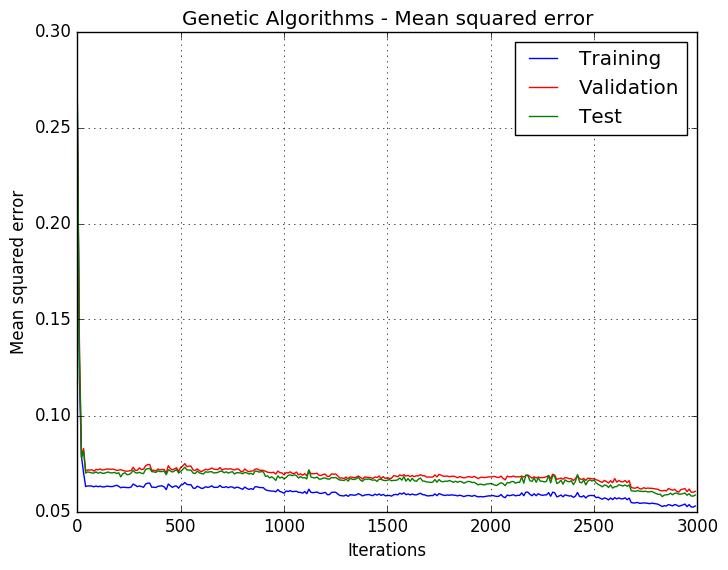
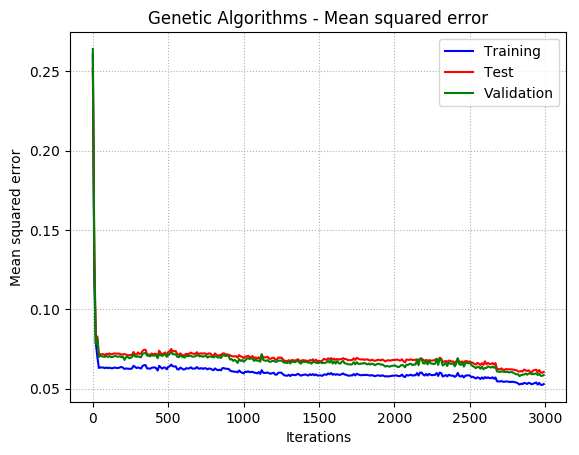
Added validation curves

diff --git a/src/nn_plots.py b/src/nn_plots.py
@@ -4,8 +4,6 @@ experiments.
 
 """
 from helpers import get_abspath
-import matplotlib
-matplotlib.use('agg')
 import numpy as np
 import pandas as pd
 import seaborn as sns
@@ -17,10 +15,28 @@ def combine_datasets(datafiles):
     optimization algorithms.
 
     Args:
-        datafiles (list(str)): List of files to be used.
+        datafiles (dict(str)): Dictionary of filepaths to be used.
 
     """
     # create combined error datasets
+    resdir = 'results/NN'
+    BP = datafiles['BP']
+    RHC =datafiles['RHC']
+    SA = datafiles['SA']
+    GA = datafiles['GA']
+
+    # rename columns
+    bpCols = {'MSE_train': 'bp_msetrain', 'MSE_test': 'bp_msetest', 'MSE_validation':'bp_msevalid', 'acc_train': 'bp_acctrain','acc_test':'bp_acctest', 'acc_validation':'bp_accvalid', 'seconds_elapsed': 'bp_time'}
+    rhcCols = {'MSE_train': 'rhc_msetrain', 'MSE_test': 'rhc_msetest', 'MSE_validation':'rhc_msevalid', 'acc_train': 'rhc_acctrain','acc_test':'rhc_acctest', 'acc_validation':'rhc_accvalid', 'seconds_elapsed': 'rhc_time'}
+    saCols = {'MSE_train': 'sa_msetrain', 'MSE_test': 'sa_msetest', 'MSE_validation':'sa_msevalid', 'acc_train': 'sa_acctrain','acc_test':'sa_acctest', 'acc_validation':'sa_accvalid', 'seconds_elapsed': 'sa_time'}
+    gaCols = {'MSE_train': 'ga_msetrain', 'MSE_test': 'ga_msetest', 'MSE_validation':'ga_msevalid', 'acc_train': 'ga_acctrain','acc_test':'ga_acctest', 'acc_validation':'ga_accvalid', 'seconds_elapsed': 'ga_time'}
+
+    BP.rename(index=str, columns=bpCols, inplace=True)
+    RHC.rename(index=str, columns=rhcCols, inplace=True)
+    SA.rename(index=str, columns=saCols, inplace=True)
+    GA.rename(index=str, columns=gaCols, inplace=True)
+
+    # create combined validation datasets ()
 
 
 def combined_error(df, ef='Mean squared error'):
@@ -35,13 +51,12 @@ def combined_error(df, ef='Mean squared error'):
     print('hello')
 
 
-def combined_acc(df, ef='Mean squared error'):
+def combined_acc(df):
     """Generates plots for comparing accuracy scores across the various
     optimization algorithms.
 
     Args:
         df (Pandas.DataFrame): Dataset.
-        ef (str): Name of loss function.
 
     """
     print('hello')
@@ -54,6 +69,7 @@ def error_curve(df, oaName, title, ef='Mean squared error'):
     Args:
         df (Pandas.DataFrame): Dataset.
         oaName (str): Name of optimization algorithm.
+        title (str): Plot title.
         ef (str): Name of loss function.
 
     """
@@ -67,8 +83,8 @@ def error_curve(df, oaName, title, ef='Mean squared error'):
     # create error curve
     plt.figure(0)
     plt.plot(iterations, MSE_train, color='b', label='Training')
-    plt.plot(iterations, MSE_test, color='r', label='Validation')
-    plt.plot(iterations, MSE_valid, color='g', label='Test')
+    plt.plot(iterations, MSE_test, color='r', label='Test')
+    plt.plot(iterations, MSE_valid, color='g', label='Validation')
     plt.legend(loc='best')
     plt.grid(linestyle='dotted')
     plt.title('{} - {}'.format(title, ef))
@@ -79,6 +95,42 @@ def error_curve(df, oaName, title, ef='Mean squared error'):
     plotdir = 'plots/NN'
     plot_tgt = '{}/{}'.format(plotdir, oaName)
     plotpath = get_abspath('{}_error.png'.format(oaName), plot_tgt)
+    plt.savefig(plotpath, bbox_inches='tight')
+    plt.clf()
+
+
+def validation_curve(df, oaName, title):
+    """Plots the validation curve for a given optimization algorithm on the
+    seismic-bumps dataset and saves it as a PNG file.
+
+    Args:
+        df (Pandas.DataFrame): Dataset.
+        oaName (str): Name of optimization algorithm.
+        title (str): Plot title.
+
+    """
+
+    # get columns
+    iterations = df['iteration']
+    acc_train = df['acc_train']
+    acc_test = df['acc_test']
+    acc_valid = df['acc_validation']
+
+    # create validation curve
+    plt.figure(0)
+    plt.plot(iterations, acc_train, color='b', label='Training')
+    plt.plot(iterations, acc_test, color='r', label='Test')
+    plt.plot(iterations, acc_valid, color='g', label='Validation')
+    plt.legend(loc='best')
+    plt.grid(linestyle='dotted')
+    plt.title('{} - Validation Curve'.format(title))
+    plt.xlabel('Iterations')
+    plt.ylabel('Accuracy')
+
+    # save learning curve plot as PNG
+    plotdir = 'plots/NN'
+    plot_tgt = '{}/{}'.format(plotdir, oaName)
+    plotpath = get_abspath('{}_VC.png'.format(oaName), plot_tgt)
     plt.savefig(plotpath, bbox_inches='tight')
     plt.clf()
 
@@ -96,5 +148,11 @@ if __name__ == '__main__':
     error_curve(RHC, oaName='RHC', title='Randomized Hill Climbing')
     error_curve(SA, oaName='SA', title='Simulated Annealing')
     error_curve(GA, oaName='GA', title='Genetic Algorithms')
+    validation_curve(BP, oaName='BP', title='Backpropagation')
+    validation_curve(RHC, oaName='RHC', title='Randomized Hill Climbing')
+    validation_curve(SA, oaName='SA', title='Simulated Annealing')
+    validation_curve(GA, oaName='GA', title='Genetic Algorithms')
 
     # generate combined plots
+    datafiles = {'BP': BP, 'RHC': RHC, 'SA': SA, 'GA': GA}
+    combine_datasets(datafiles)
